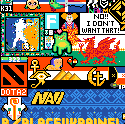
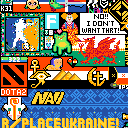
Added partial map load

diff --git a/src/static/scripts/script.js b/src/static/scripts/script.js
@@ -1,4 +1,11 @@
 
+let map_pieces_x = 2
+let map_pieces_y = 2
+let map_piece_size_x = 128
+let map_piece_size_y = 128
+
+var pieces = Array(map_pieces_x).fill(null).map(() => Array(map_pieces_y));
+
 var map;
 var cursorIcon;
 var cursorX;
@@ -13,6 +20,18 @@ var pixelsOnScreenY = window.innerHeight / pixelSize;
 var pixelsOnScreenXdiv2 = parseInt(pixelsOnScreenX / 2);
 var pixelsOnScreenYdiv2 = parseInt(pixelsOnScreenY / 2);
 var cursorPosition = document.getElementById('cursorPosition');
+
+function load_piece(x, y) {
+    img = document.createElement('img');
+    img.src = "static/source/map/" + x + "_" + y + ".png";
+    img.classList.add("map");
+    img.setAttribute("id", x + "_" + y);
+    img.width = map_piece_size_x;
+    img.height = map_piece_size_y;
+    document.getElementById("mapDiv").appendChild(img);
+    pieces[x][y] = document.getElementById(x + "_" + y);
+    // pieces[x][y].style.display = "none";
+}
 
 function cursorUpdate() {
     cursorIcon.style.left = (pixelsOnScreenXdiv2 * pixelSize) + "px";
@@ -29,6 +48,21 @@ function mapScaleSetOffset() {
     // TODO: Fancy animation
 }
 
+function pieceScaleOffset(x, y) {
+    var pivotLocationX = -1 * (cursorX - pixelsOnScreenXdiv2);
+    var pivotLocationY = -1 * (cursorY - pixelsOnScreenYdiv2);
+    pivotLocationX += x * map_piece_size_x;
+    pivotLocationY += y * map_piece_size_y;
+    
+    pieces[x][y].style.left = (pivotLocationX * pixelSize) + "px";
+    pieces[x][y].style.top = (pivotLocationY * pixelSize) + "px";
+}
+
+function pieceScale(x, y) {
+    pieces[x][y].width = mapInitialSizeX / map_pieces_x * pixelSize;
+    pieces[x][y].height = mapInitialSizeY / map_pieces_y * pixelSize;
+}
+
 function mapScale(value) {
     pixelSize = value;
     pixelsOnScreenX = window.innerWidth / pixelSize;
@@ -39,9 +73,13 @@ function mapScale(value) {
     setCookie("pixelSize", pixelSize, {'max-age': 3600});
     moveStep = parseInt(32 / pixelSize);
 
-    map.width = mapInitialSizeX * pixelSize;
-    map.height = mapInitialSizeY * pixelSize;
-    mapScaleSetOffset();
+    for (var i = 0; i < map_pieces_x; i++) {
+        for (var j = 0; j < map_pieces_y; j++) {
+            pieceScale(i, j);
+            pieceScaleOffset(i, j);
+        }
+    }
+    
     cursorUpdate()
 }
 
@@ -65,15 +103,20 @@ function moveBy(x, y) {
     cursorY = targetY;
     setCookie("cursorY", cursorY, {'max-age': 3600});
 
-    mapScaleSetOffset(pixelSize);
+    for (var i = 0; i < map_pieces_x; i++) {
+        for (var j = 0; j < map_pieces_y; j++) {
+            pieceScaleOffset(i, j);
+        }
+    }
+    // mapScaleSetOffset(pixelSize);
     cursorPosition.textContent = "(" + cursorX + ", " + cursorY + ")";
 }
 
 function mapInit() {
     cursorPosition = document.getElementById("cursorPosition");
     map = document.getElementById('map');
-    mapInitialSizeX = map.width;
-    mapInitialSizeY = map.height;
+    mapInitialSizeX = map_piece_size_x * map_pieces_x;
+    mapInitialSizeY = map_piece_size_y * map_pieces_y;
 
     cursorIcon = document.getElementById('cursor');
 
@@ -99,7 +142,11 @@ function mapInit() {
 
 window.onload = function() {
     // init map settings.
-    
+    for (var i = 0; i < map_pieces_x; i++) {
+        for (var j = 0; j < map_pieces_y; j++) {
+            load_piece(i, j);
+        }
+    }
     mapInit();
 }
 

diff --git a/src/templates/index.html b/src/templates/index.html
@@ -5,7 +5,12 @@
         <script src="{{ url_for('static',filename='scripts/script.js') }}"></script>
     </head>
     <body>
-        <img src="{{ url_for('static',filename='source/map/0_0.png') }}" id="map">
+        <div id="mapDiv">
+            <!-- <img src="static/source/map/0_0.png" class="map"> -->
+            <!-- <img src="static/source/map/0_0.png" class="map" id="map"> -->
+            <!-- <img src="{{ url_for('static',filename='source/map/0_0.png') }}" class="map" id="map"> -->
+        </div>
+        
         <img src="{{ url_for('static',filename='source/cursor.png') }}" id="cursor">
 
         <div id="settings">

diff --git a/src/static/styles/styles.css b/src/static/styles/styles.css
@@ -21,7 +21,7 @@ body, html {
     background: lightcoral;
 }
 
-#map {
+.map {
     position: absolute;
     image-rendering: pixelated;
 }

diff --git a/src/server.py b/src/server.py
@@ -9,7 +9,7 @@ address = "127.0.0.1"
 port = 5000
 
 app = flask.Flask(__name__)
-canvas = Canvas(1, 1)
+canvas = Canvas(2, 2)
 
 @app.route('/index')
 @app.route('/')
